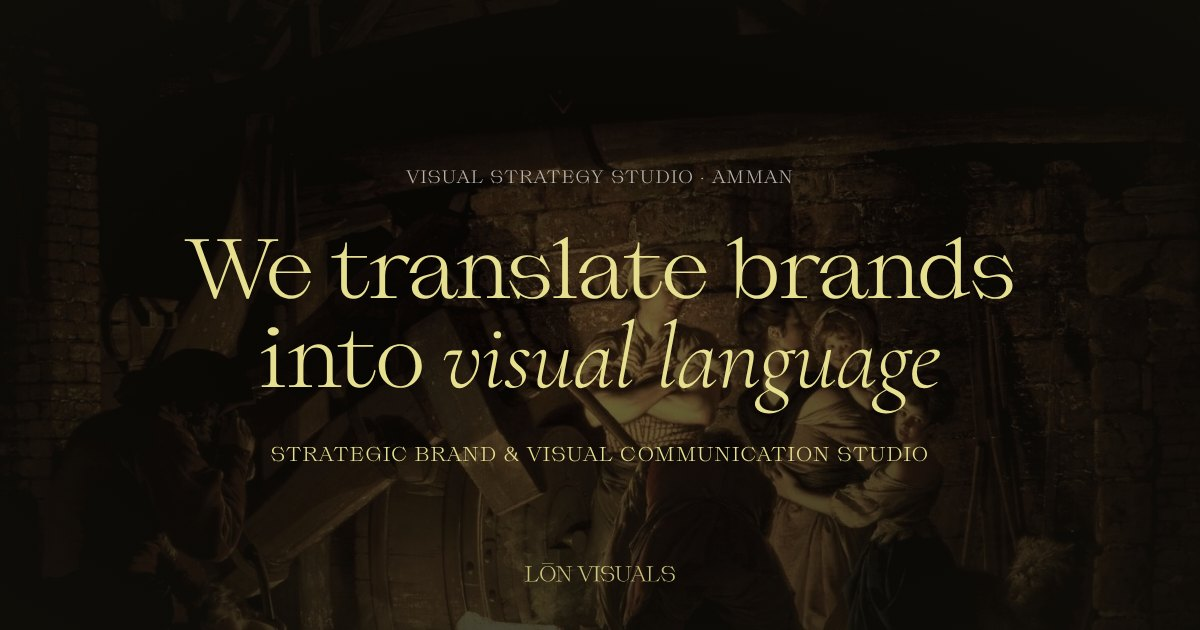
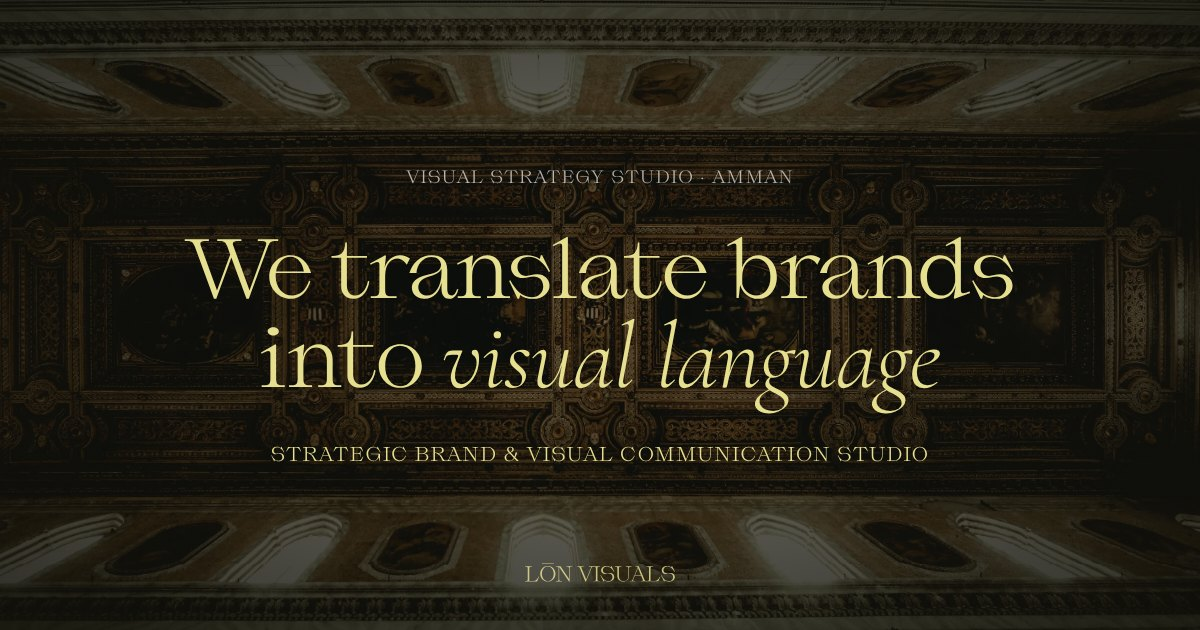
Remove the misspelled Wakers sign, the MTW placeholder badge and the Zain Alsharaf card; Duomo for the menu and share card
Claude-Session: https://claude.ai/code/session_01RZWNaRedwkvmfCj7nsNNwT

diff --git a/app/utils/site.ts b/app/utils/site.ts
@@ -102,7 +102,6 @@ export const selectedWork: WorkCard[] = [
   { title: 'Sana Interiors', category: 'Brand Identity · Interior Design', image: '4e29c410bb', slug: 'sana-interiors', more: ['66a3bbd3ad', '58d0e9b72f', '4a1980355c', 'c04711e04a'] },
   { title: 'Rambourg Fondation', category: 'Brand Identity · Foundation', image: 'd4ea00b977', slug: 'rambourg', focus: '50% 50%', more: ['5bcb72c2f7', '0beaeaaa38', '4366bfe7e3', '149fdf4649'] },
   { title: 'National Cyber Security Center', category: 'Identity · Government', image: 'ee591a3a9d', slug: null, ratio: 'image' },
-  { title: 'Zain Alsharaf Center', category: 'Brand Identity · Culture', image: 'f86a45667b', slug: null, ratio: 'image' },
 ]
 
 export const clients = [
@@ -111,7 +110,8 @@ export const clients = [
   'SkyFalcons', 'World Health Organization', 'Halcyon', 'Save the Children', 'Art Engine Media & Films', 'Brinc', 'Tabuk', 'Roycelysian',
 ].map((name, i) => ({ name, src: `/clients/${String(i + 1).padStart(2, '0')}.svg` }))
 
-export const HERO_IMAGE = 'b42e0ba664'
+/** menu and social card image: the first image of the hero sequence */
+export const HERO_IMAGE = 'c5aa67204b'
 /** Homepage hero sequence, in the studio's order: Duomo di San Gennaro, An Iron Forge, Merian's Rome, the Blue Quran, zellige.
  *  The last three are busy: '|0.4' darkens them so the title reads */
 export const HERO_SLIDES = ['c5aa67204b', '3fea306359', '2fc713ce80|0.4', '6ff9f0f345|0.4', 'e3eaf56e13|0.45']

diff --git a/scripts/build_content.py b/scripts/build_content.py
@@ -315,7 +315,8 @@ def sana_lower_half(blocks):
 def wakers_book(blocks):
     """Wakers17, ordered by its brand book: strategy, personality, brand world, applications.
     Copy is drawn from the book's text. 270673d184 and aaf4e9f31a are replaced by the studio's
-    sharper versions of the same designs (78df232c2e, now the hero, and 5fe5c99f55)."""
+    sharper version of the same design (78df232c2e, now the hero). The projecting-sign render
+    (5fe5c99f55, aaf4e9f31a) is left out at the studio's request: its artwork misspells Juice."""
     old = next(b for b in blocks if b['type'] == 'palette')
     def img(i, alt): return {'id': i, 'alt': alt}
     def media(imgs, caption, layout=None):
@@ -366,8 +367,8 @@ def wakers_book(blocks):
         media([('09a546817d', 'Wakers17 glass with juice and mint'), ('b4d67334f0', 'Green Wakers17 paper cup: Wake up, your coffee is ready!')], 'Glass and paper cup · Juice and coffee'),
         media([('9b31bd7444', 'Wakers17 takeaway coffee cup in hand'), ('13c4c30fe5', 'Wakers17 cake box packaging')], 'Takeaway · Coffee cup and cake box'),
         media([('8056e282c1', 'Wakers17 sandwich packaging on green'), ('b3d93181b6', 'Wakers17 pillow box packaging on purple')], 'Packaging · Sandwich box and pillow box'),
-        media([('5fe5c99f55', 'W17 Coffee & Juice projecting sign on a stone facade'), ('28c1c11c00', 'Wakers17 sign seen through branches')], 'Signage · The projecting sign'),
-        media([('34da50d446', 'Wakers17 storefront on an Amman street'), ('a16077e013', 'W17 on rainy glass')], 'In the city · Storefront and window'),
+        media([('28c1c11c00', 'Wakers17 sign seen through branches'), ('34da50d446', 'Wakers17 storefront on an Amman street')], 'Signage · The projecting sign and the storefront'),
+        media([('a16077e013', 'W17 on rainy glass')], 'In the city · W17 on the window'),
     ]
 
 def curate(P):

diff --git a/scripts/make_brand_assets.py b/scripts/make_brand_assets.py
@@ -61,7 +61,7 @@ def main():
         tile.save(PUB / 'favicon.ico', sizes=[(16, 16), (32, 32), (48, 48)])
 
         pg = b.new_page(viewport={'width': 1200, 'height': 630})
-        cards = [('home', 'b42e0ba664', 'Visual Strategy Studio · Amman', 'We translate brands<br>into <em>visual language</em>', 'Strategic brand &amp; visual communication studio')]
+        cards = [('home', 'c5aa67204b', 'Visual Strategy Studio · Amman', 'We translate brands<br>into <em>visual language</em>', 'Strategic brand &amp; visual communication studio')]
         cards += [(pr['slug'], pr['hero'], 'Case study' + (f" · {pr['year']}" if pr['year'] else ''), pr['title'], pr['category']) for pr in projects]
         for slug, iid, kicker, title, sub in cards:
             # loaded from a file URL so the page may read local fonts and images
